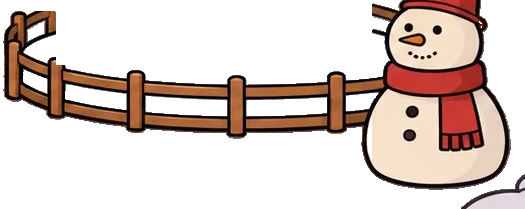
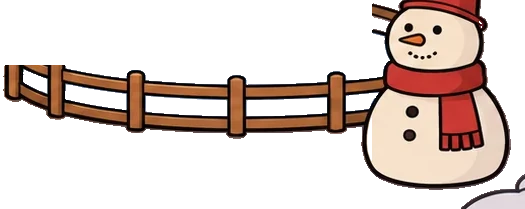
크리스마스 광장 스케이트장: 왼쪽 펜스 모서리 겹침 고침 — 앞 겹에서 왼쪽 끝 기둥을 빼고, 도는 타원을 줄여 손님이 모서리까지 안 가게 (tools/make_plaza_rink.py, web/plaza/scene.json skate.center·r)
Claude-Session: https://claude.ai/code/session_013gkWdjqDwwMfs8SrUNHEXQ

Changed region(s): [[0.0, 0.0287, 0.1219, 0.3158]]

diff --git a/tools/make_plaza_rink.py b/tools/make_plaza_rink.py
@@ -3,7 +3,7 @@
 배경 그림의 스케이트장 앞쪽 펜스(+ 오른쪽 눈사람)만 잘라 web/plaza/rink-front-day.webp · rink-front-night.webp로.
 스케이트 타는 손님을 그 뒤에 그리고 이 겹을 위에 얹으면 펜스 너머로 보인다.
 고르기는 낮 그림 색으로(펜스 갈색·외곽선 진한 색·눈사람 흰색·빨강) 하고, 같은 자리 픽셀을 밤 그림에서도 똑같이 자른다(밤 그림은 낮과 구도가 같음).
-자르는 곳: BOX 안에서 — 앞 펜스 띠(y ≥ FRONT_Y), 왼쪽 끝 기둥(x < LEFT_X, y ≥ LEFT_Y), 눈사람(x ≥ SNOW_X). 바닥(회색 돌)·얼음(하늘색)은 빼고."""
+자르는 곳: BOX 안에서 — 앞 펜스 띠(y ≥ FRONT_Y), 눈사람(x ≥ SNOW_X). 바닥(회색 돌)·얼음(하늘색)은 빼고."""
 from pathlib import Path
 from PIL import Image
 import numpy as np
@@ -26,7 +26,7 @@ white = mn > 228
 ice = (b > r + 18) & (mx > 170)
 ground = (sat < 30) & (mx >= 90) & (mx <= 228)
 yy, xx = np.mgrid[y0:y1, x0:x1]
-zone = (yy >= FRONT_Y) | ((xx < LEFT_X) & (yy >= LEFT_Y))
+zone = yy >= FRONT_Y  # 왼쪽 끝 기둥은 안 자름(손님이 거기까지 안 감 — 자르면 뒤쪽 펜스와 어긋나 보임)
 snow = xx >= SNOW_X
 keep = (a > 40) & ~ice & ~ground & ((zone & (brown | dark)) | (snow & (brown | dark | red | white)))
 # 외곽선이 끊기지 않게 한 칸 넓힘
